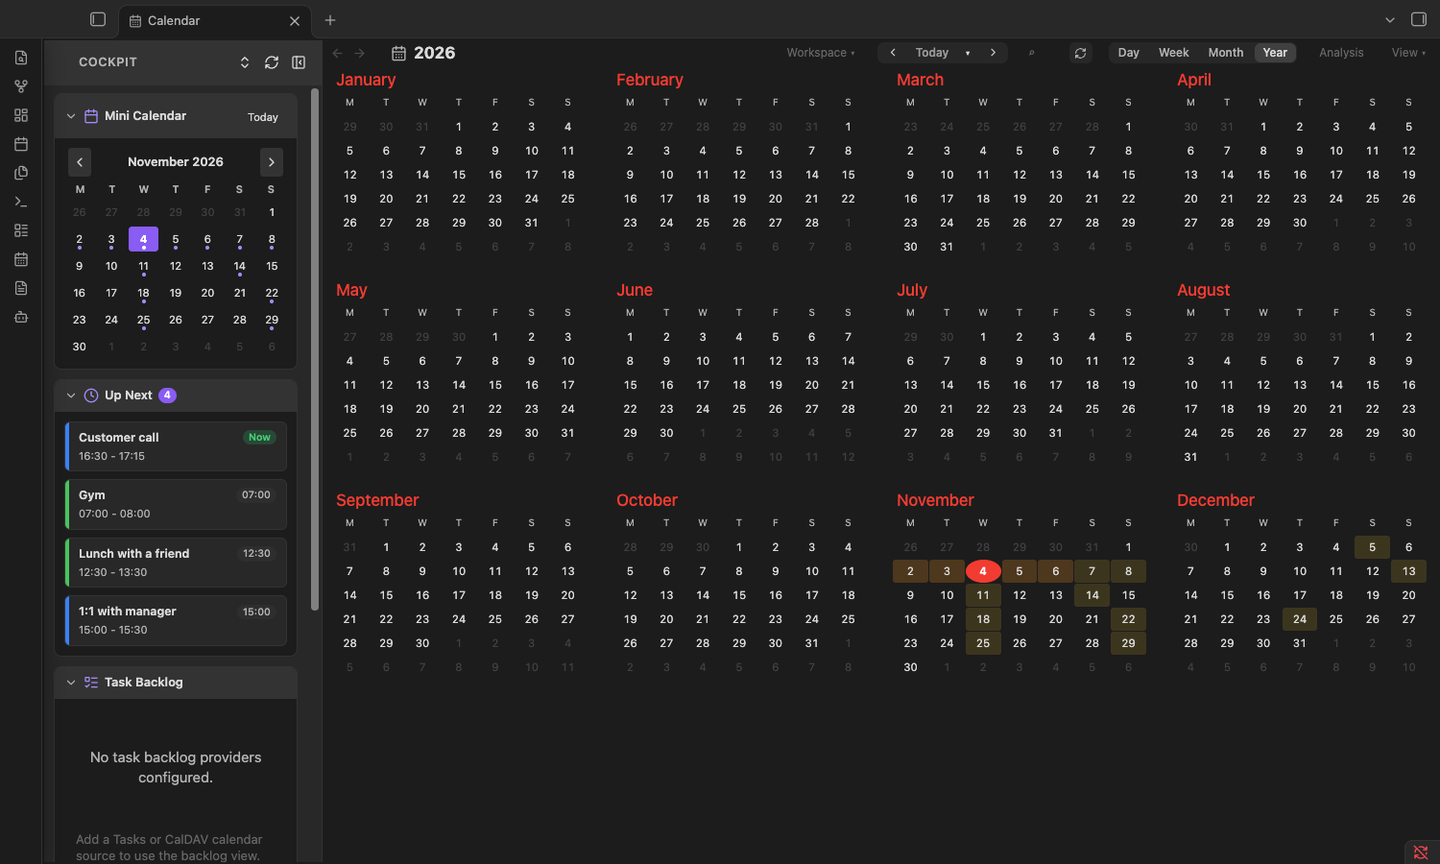
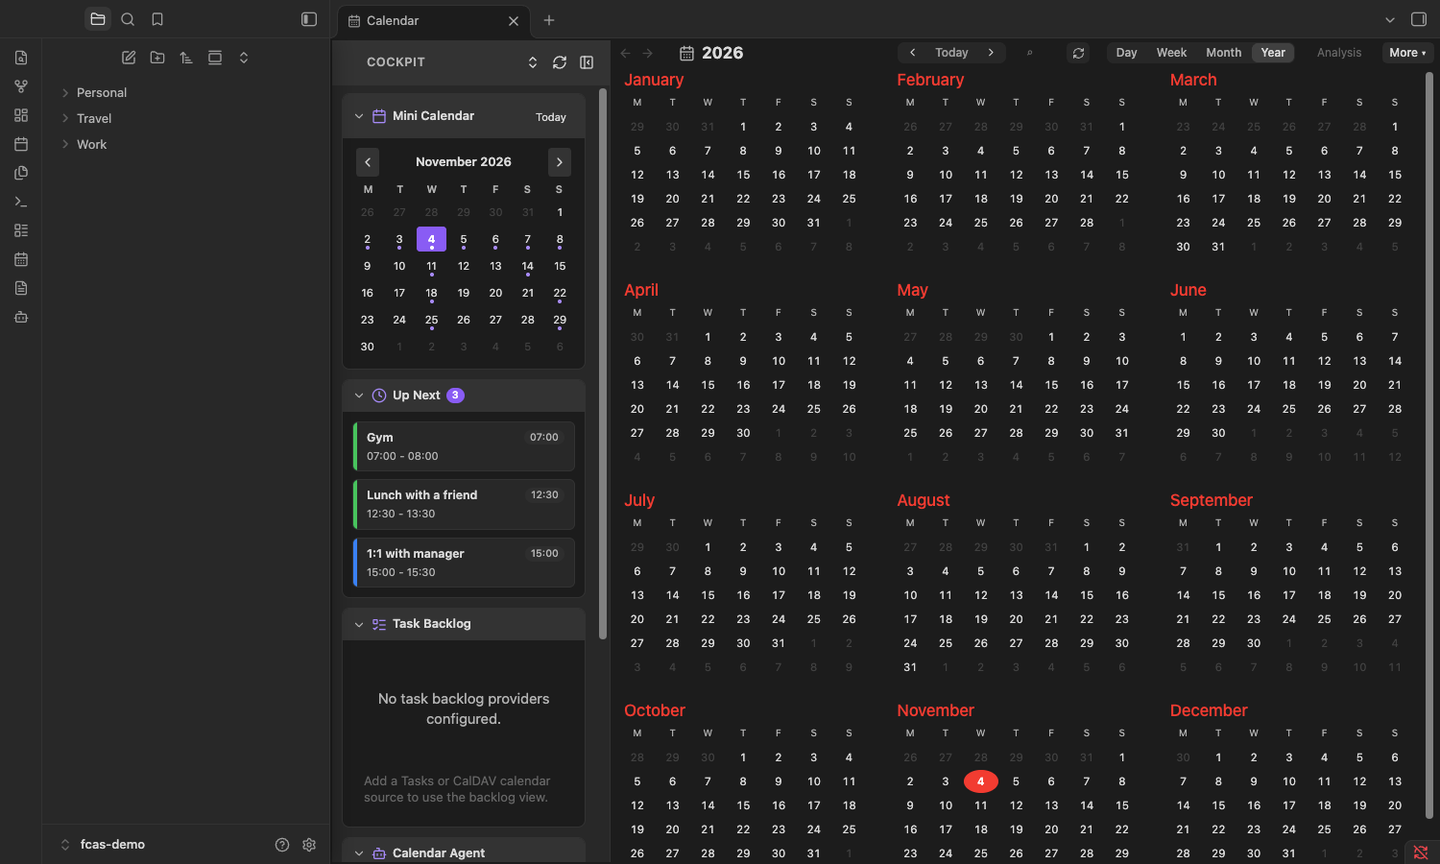
1.1.0: match Apple Calendar by default; extras are opt-in settings

diff --git a/main.js b/main.js
@@ -14,7 +14,7 @@
 // Re-checked every 2 s because Full Calendar rebuilds its calendar object on view/settings changes.
 const { Plugin, PluginSettingTab, Setting, setIcon, Menu } = require('obsidian');
 const FC_ID = 'full-calendar-remastered';   // the Full Calendar plugin this skin dresses
-const DEFAULTS = { hidden: [], soloPrev: null, hijri: false, weekFromToday: false, firstDay: -1 };   // firstDay -1 = follow Full Calendar
+const DEFAULTS = { hidden: [], soloPrev: null, hijri: false, weekFromToday: false, firstDay: -1, routine: false, routineMin: 240, layered: false, chips: false, yearHeat: false };   // firstDay -1 = follow Full Calendar
 let hijriOn = false;   // Islamic-calendar secondary dates (setting)
 // ---------- Layout: how events share a day (rules in docs/LAYOUT-RULES.md) ----------
 // Tunables: one edit each. px = screen pixels in the time grid.
@@ -24,7 +24,7 @@ const SAME_START_PX = 10;         // R2  two ordinary events starting this close
 const TINY_OVERLAP_PX = 9;        // R5  an edge overlap up to this many px counts as tiny…
 const TINY_OVERLAP_RATIO = 0.2;   // R5  …or up to this share of the smaller box
 const MIN_BOX_PX = 15;            // R5  a box is never trimmed below this: it moves away instead
-const BACKDROP_MIN = 240;         // R1  repeating items of at least this many minutes are always the back layer (a night's sleep, a long shift)
+let routineOn = false, BACKDROP_MIN = 240;   // optional striped look: repeating items of at least BACKDROP_MIN minutes form the back layer (a night's sleep, a long shift)
 const BOX_ALPHA = 0.8;            // R3  fill of the top box where it only covers another box
 const DROP_GAP_PX = 2;            // R4b gap kept under the text behind when the top box's text drops clear
 const TEXT_ALPHA = 0.3;           // R4  top box (fill + text) where it covers text behind
@@ -69,6 +69,7 @@ const placeOf = loc => { const s = String(loc || '').trim(); if (!s) return null
 
 const pad = n => String(n).padStart(2, '0');
 const HIJRI = 'ar-SA-u-ca-islamic-civil-nu-latn';   // civil variant of the Islamic calendar
+const syncRoutine = st => { routineOn = !!st.routine; BACKDROP_MIN = Math.max(30, Number(st.routineMin) || 240); };
 const hijriParts = d => {
 	if (!hijriOn) return null;
 	try {
@@ -101,7 +102,7 @@ module.exports = class FcAppleSkin extends Plugin {
 		this.hidden = new Set();     // calendar ids switched off (Calendars panel / chips), kept in this plugin's data.json
 		this.soloPrev = null;        // hidden set before a solo, restored by clicking the solo chip again
 		this.loadCalNames();
-		this.loadData().then(d => { this.settings = Object.assign({}, DEFAULTS, d || {}); hijriOn = !!this.settings.hijri; this.hidden = new Set(this.settings.hidden || []); this.soloPrev = Array.isArray(this.settings.soloPrev) ? new Set(this.settings.soloPrev) : null; this.reparseAll(); });
+		this.loadData().then(d => { this.settings = Object.assign({}, DEFAULTS, d || {}); hijriOn = !!this.settings.hijri; syncRoutine(this.settings); this.hidden = new Set(this.settings.hidden || []); this.soloPrev = Array.isArray(this.settings.soloPrev) ? new Set(this.settings.soloPrev) : null; this.reparseAll(); });
 		this.addSettingTab(new SkinSettings(this.app, this));
 		this.dayHeader = arg => {
 			const d = arg.date, type = arg.view.type;
@@ -169,7 +170,7 @@ module.exports = class FcAppleSkin extends Plugin {
 		if (!raw) return raw;
 		// repeating timed items of BACKDROP_MIN+ minutes (a night's sleep, a shift) get the quieter striped "routine" look and form the back layer
 		const rec = !!(raw.rrule || raw.daysOfWeek || raw.startRecur), m = rawMinutes(raw);
-		if (!raw.allDay && rec && m != null && m >= BACKDROP_MIN) return Object.assign({}, raw, { classNames: [].concat(raw.classNames || [], 'fcas-routine') });
+		if (routineOn && !raw.allDay && rec && m != null && m >= BACKDROP_MIN) return Object.assign({}, raw, { classNames: [].concat(raw.classNames || [], 'fcas-routine') });
 		return raw;
 	}
 	hookFc(fc) {
@@ -240,7 +241,9 @@ module.exports = class FcAppleSkin extends Plugin {
 		const vt = (fc.view && fc.view.type) || fc.getOption('initialView');
 		this.hookFc(fc);
 		if (fc.getOption('dayHeaderContent') !== this.dayHeader) fc.setOption('dayHeaderContent', this.dayHeader);
+		if (fc.getOption('defaultRangeSeparator') !== '–') fc.setOption('defaultRangeSeparator', '–');   // 09:30–10:00 as in Apple Calendar
 		if (fc.getOption('titleFormat') !== this.titleFormat) fc.setOption('titleFormat', this.titleFormat);
+		const ov = !!this.settings.layered; if (fc.getOption('slotEventOverlap') !== ov) fc.setOption('slotEventOverlap', ov);   // off: overlapping events sit side by side, as in Apple Calendar
 		if (!this.prefsDone.has(fc)) {
 			this.prefsDone.add(fc); for (const [k, val] of Object.entries(this.prefs)) fc.setOption(k, val);
 			// optional: a freshly built week view opens with today in the first column (rolling 7 days)
@@ -592,13 +595,13 @@ module.exports = class FcAppleSkin extends Plugin {
 		// Month view: Islamic day at the top-left of each cell (when on), "1 Oct" on the 1st (Apple Calendar)
 		box.querySelectorAll('.fc-daygrid-day[data-date] .fc-daygrid-day-top').forEach(top => {
 			const cell = top.closest('.fc-daygrid-day'), k = cell.dataset.date;
+			const num = top.querySelector('.fc-daygrid-day-number');   // "1 Nov" on the 1st: a data attribute shown by CSS, Full Calendar's own text is left alone
+			if (num && k.endsWith('-01') && !num.dataset.fcasMon) { const [y0, m0] = k.split('-').map(Number); num.dataset.fcasMon = new Date(y0, m0 - 1, 1).toLocaleDateString(undefined, { month: 'short' }); }
 			if (top.dataset.fcasH === k) return;
 			top.dataset.fcasH = k;
 			top.querySelectorAll('.fcas-mhijri').forEach(x => x.remove());
 			const [y, m, d] = k.split('-').map(Number), dt = new Date(y, m - 1, d), h = hijriParts(dt);
 			if (h) top.prepend(createSpan({ cls: 'fcas-mhijri' + (h.day === '1' ? ' is-first' : ''), text: h.day === '1' ? h.month : h.day, attr: { dir: 'rtl' } }));
-			const num = top.querySelector('.fc-daygrid-day-number');
-			if (num && d === 1 && !num.dataset.fcasMon) { num.dataset.fcasMon = '1'; num.textContent = '1 ' + dt.toLocaleDateString(undefined, { month: 'short' }); }
 		});
 		const now = new Date(), nowTxt = hm(now);
 		box.querySelectorAll('.fc-timegrid-now-indicator-arrow').forEach(a => { if (a.dataset.now !== nowTxt) a.dataset.now = nowTxt; });
@@ -624,7 +627,7 @@ module.exports = class FcAppleSkin extends Plugin {
 		}
 		const ha = hijriParts(a), hb = hijriParts(b);
 		const hijri = ha ? (hb && hb.month !== ha.month ? ha.month + ' – ' + hb.month : ha.month) : '';
-		return { main, sub: d.getFullYear() !== now.getFullYear() ? String(d.getFullYear()) : '', hijri };
+		return { main, sub: String(d.getFullYear()), hijri };
 	}
 
 	// does a hidden calendar have (non-repeating) events in [a, b)? Raw data only; repeating ones are remembered from before.
@@ -636,6 +639,7 @@ module.exports = class FcAppleSkin extends Plugin {
 
 	// Toolbar chips: one coloured ring per calendar with events in view. Click = only that calendar (again = back); Shift-click = hide/show.
 	paintChips(box, after) {
+		if (!this.settings.chips) { const old = box.querySelector('.fcas-chips'); if (old) old.remove(); return; }
 		const fc = box.fcasFc;
 		let row = box.querySelector('.fcas-chips');
 		if (!fc || !fc.view || this.year !== null) { if (row) row.remove(); return; }
@@ -663,7 +667,13 @@ module.exports = class FcAppleSkin extends Plugin {
 
 
 	// ---------- Layout: one collision pass per day column (docs/LAYOUT-RULES.md). Inline geometry only; FC's values are put back first. ----------
+	resetLayout(box) {
+		box.querySelectorAll('.fc-timegrid-event-harness').forEach(h => { const st = h.fcasSet; if (st) for (const k of Object.keys(st.o)) h.style[k] = st.o[k]; h.fcasSet = null; });
+		box.querySelectorAll('.fc-timegrid-col').forEach(c => { c.fcasKey = null; });
+		box.querySelectorAll('.fcas-ov, .fcas-fit1, .fcas-fit2, .fcas-drop').forEach(e => { e.classList.remove('fcas-ov', 'fcas-fit1', 'fcas-fit2', 'fcas-drop'); e.style.removeProperty('mask-image'); e.style.removeProperty('-webkit-mask-image'); });
+	}
 	paintLayout(box) {
+		if (!this.settings.layered) { if (box.querySelector('.fcas-ov, .fcas-fit1, .fcas-fit2, .fcas-drop, .fc-timegrid-col[data-date]')) this.resetLayout(box); return; }
 		if (this.year !== null) return;
 		for (const col of box.querySelectorAll('.fc-timegrid-col[data-date]')) { try { this.layoutCol(col); } catch (e) { console.warn('[fc-apple-skin] layout', e); } }
 	}
@@ -682,7 +692,7 @@ module.exports = class FcAppleSkin extends Plugin {
 		}
 		const o = col.getBoundingClientRect(), evs = hs.map(e => {
 			const r = e.el.getBoundingClientRect(), g = e.el.fcSeg, mins_ = g ? (g.end - g.start) / 60000 : 0;
-			return Object.assign(e, { top: r.top - o.top, bot: r.bottom - o.top, x: 0, w: colW, depth: 0, grp: null, moved: false, back: e.el.classList.contains('fcas-routine') && mins_ >= BACKDROP_MIN, short: e.el.classList.contains('fc-timegrid-event-short') });
+			return Object.assign(e, { top: r.top - o.top, bot: r.bottom - o.top, x: 0, w: colW, depth: 0, grp: null, moved: false, back: routineOn && e.el.classList.contains('fcas-routine') && mins_ >= BACKDROP_MIN, short: e.el.classList.contains('fc-timegrid-event-short') });
 		}).sort((a, b) => (b.back - a.back) || (a.top - b.top) || ((b.bot - b.top) - (a.bot - a.top)));
 		// R2: ordinary events starting together share the width
 		evs.forEach((e, i) => { if (e.back) return; for (let j = 0; j < i; j++) { const p = evs[j]; if (!p.back && overlapY(p, e) > Math.max(TINY_OVERLAP_PX, TINY_OVERLAP_RATIO * Math.min(p.bot - p.top, e.bot - e.top)) && Math.abs(p.top - e.top) <= SAME_START_PX) { e.grp = p.grp || p; e.grp.grp = e.grp; break; } } });
@@ -840,7 +850,7 @@ module.exports = class FcAppleSkin extends Plugin {
 				const cell = g.createDiv({ cls: 'fcas-yday', text: String(d.getDate()) });
 				if (!inMonth) { cell.addClass('is-other'); continue; }
 				cell.dataset.date = k;
-				const lv = level(count[k]);
+				const lv = this.settings.yearHeat ? level(count[k]) : 0;
 				if (lv) cell.addClass('lv' + lv);
 				if (k === today) cell.addClass('is-today');
 				const h = hijriParts(d), hf = !!(h && h.day === '1');
@@ -972,6 +982,7 @@ module.exports = class FcAppleSkin extends Plugin {
 				box.classList.remove('fcas', 'fcas-year-on');
 				box.querySelectorAll('.fcas-title, .fcas-seg, .fcas-year, .fcas-hmonth, .fcas-loc, .fcas-mhijri, .fcas-chips, .fcas-nav, .fcas-sync').forEach(e => e.remove());
 				box.querySelectorAll('[data-fcas-loc]').forEach(e => delete e.dataset.fcasLoc);
+				box.querySelectorAll('[data-fcas-mon]').forEach(e => delete e.dataset.fcasMon); box.querySelectorAll('[data-fcas-h]').forEach(e => delete e.dataset.fcasH);
 				box.querySelectorAll('.fc-timegrid-event-harness').forEach(h => { const st = h.fcasSet; if (st) for (const k of Object.keys(st.o)) h.style[k] = st.o[k]; h.fcasSet = null; });
 				box.querySelectorAll('.fc-timegrid-col').forEach(c => { c.fcasKey = null; });
 				box.querySelectorAll('.fcas-ov, .fcas-fit1, .fcas-fit2, .fcas-drop').forEach(e => { e.classList.remove('fcas-ov', 'fcas-fit1', 'fcas-fit2', 'fcas-drop'); e.style.removeProperty('mask-image'); e.style.removeProperty('-webkit-mask-image'); });
@@ -979,7 +990,7 @@ module.exports = class FcAppleSkin extends Plugin {
 			const fc = v.fullCalendarView;
 			this.unhookFc(fc);   // every calendar visible again
 			v.containerEl.closest('.workspace-leaf-content')?.classList.remove('fcas-leaf');
-			try { fc?.setOption('dayHeaderContent', undefined); fc?.setOption('titleFormat', undefined); fc?.setOption('firstDay', this.fd()); fc?.setOption('dayMaxEvents', false); } catch (e) {}
+			try { fc?.setOption('dayHeaderContent', undefined); fc?.setOption('titleFormat', undefined); fc?.setOption('firstDay', this.fd()); fc?.setOption('dayMaxEvents', false); fc?.setOption('slotEventOverlap', true); fc?.setOption('defaultRangeSeparator', ' - '); } catch (e) {}
 		}
 		document.querySelectorAll('.fcas-leaf').forEach(e => e.classList.remove('fcas-leaf'));
 	}
@@ -990,13 +1001,23 @@ class SkinSettings extends PluginSettingTab {
 	display() {
 		const { containerEl } = this, p = this.plugin;
 		containerEl.empty();
-		const save = async () => { await p.saveData(p.settings); hijriOn = !!p.settings.hijri; p.reparseAll(); for (const v of p.views()) { const b = v.containerEl.querySelector('.ofc-calendar-container'); if (b) { b.fcasFc && p.applyPrefs(b.fcasFc); p.paint(b); } } };
+		const save = async () => { await p.saveData(p.settings); hijriOn = !!p.settings.hijri; syncRoutine(p.settings); p.reparseAll(); for (const v of p.views()) { const b = v.containerEl.querySelector('.ofc-calendar-container'); if (b) { b.fcasFc && p.applyPrefs(b.fcasFc); p.paint(b); } } };
 		containerEl.createEl('p', { cls: 'setting-item-description', text: 'Restyles Full Calendar Remastered. These options only change how events are displayed; calendar data is never modified.' });
 		new Setting(containerEl).setName('First day of the week').setDesc('Used by the week, month, year and mini calendar views.')
 			.addDropdown(d => d.addOption('-1', 'Follow Full Calendar').addOption('1', 'Monday').addOption('0', 'Sunday').addOption('6', 'Saturday')
 				.setValue(String(p.settings.firstDay)).onChange(async v => { p.settings.firstDay = Number(v); await save(); }));
 		new Setting(containerEl).setName('Week view starts on today').setDesc('The week view shows a rolling seven days with today in the first column.')
 			.addToggle(t => t.setValue(!!p.settings.weekFromToday).onChange(async v => { p.settings.weekFromToday = v; await save(); }));
+		new Setting(containerEl).setName('Layered overlap layout').setDesc('Off by default (Apple Calendar places overlapping events side by side). On: overlapping events stack in layers with a visible side strip, and text steps down to fit. See docs/LAYOUT-RULES.md.')
+			.addToggle(t => t.setValue(!!p.settings.layered).onChange(async v => { p.settings.layered = v; await save(); }));
+		new Setting(containerEl).setName('Striped look for long repeating events').setDesc('Off by default (Apple Calendar does not do this). Repeating timed events at least as long as the threshold below are drawn striped, behind other events.')
+			.addToggle(t => t.setValue(!!p.settings.routine).onChange(async v => { p.settings.routine = v; await save(); }));
+		new Setting(containerEl).setName('Striped look threshold (minutes)').setDesc('Minimum length for the striped look. Minimum 30.')
+			.addText(t => t.setValue(String(p.settings.routineMin)).onChange(async v => { const n = Number(v); if (n >= 30) { p.settings.routineMin = Math.round(n); await save(); } }));
+		new Setting(containerEl).setName('Calendar chips in the toolbar').setDesc('Off by default (Apple Calendar has none). Coloured rings in the toolbar: click one to show only that calendar, Shift-click to hide or show it.')
+			.addToggle(t => t.setValue(!!p.settings.chips).onChange(async v => { p.settings.chips = v; await save(); }));
+		new Setting(containerEl).setName('Busy-day shading in the year view').setDesc('Off by default (Apple Calendar does not shade days). Tints each day by how many events it has.')
+			.addToggle(t => t.setValue(!!p.settings.yearHeat).onChange(async v => { p.settings.yearHeat = v; await save(); }));
 		new Setting(containerEl).setName('Show Islamic calendar dates').setDesc('Adds the Islamic (civil) day next to each date, the month name in the title and in the year view.')
 			.addToggle(t => t.setValue(!!p.settings.hijri).onChange(async v => { p.settings.hijri = v; await save(); }));
 	}

diff --git a/styles.css b/styles.css
@@ -53,7 +53,7 @@
 .fcas .fc-col-header-cell-cushion{ flex-direction: column; gap: 0; }
 .fcas .fcas-top{ display: inline-flex; align-items: center; gap: 6px; }
 .fcas .fcas-hijri{ font-size: 11px; font-weight: 400; color: var(--text-faint); line-height: 1.2; margin-top: 1px; }
-.fcas .fcas-dow{ color: var(--text-muted); font-weight: 500; }
+.fcas .fcas-dow{ color: var(--text-normal); font-weight: 400; }
 .fcas .fcas-num{
 	min-width: 26px; height: 26px; padding: 0 4px; box-sizing: border-box;
 	display: inline-flex; align-items: center; justify-content: center; border-radius: 13px;
@@ -61,7 +61,8 @@
 }
 .fcas .fc-day-today .fcas-dow{ color: var(--text-normal); }
 .fcas .fc-day-today .fcas-num{ background: var(--fcas-red); color: #fff; }
-.fcas .fc-dayGridMonth-view .fc-col-header-cell-cushion{ font-size: 12px; text-transform: uppercase; letter-spacing: .04em; }
+.fcas .fc-dayGridMonth-view .fc-col-header-cell-cushion{ font-size: 13px; font-weight: 500; }
+.fcas .fc-dayGridMonth-view .fc-col-header-cell{ text-align: right; }
 .fcas .fc-daygrid-day-number{ font-size: 13px; font-weight: 500; color: var(--text-muted); text-decoration: none !important; padding: 4px 6px; }
 .fcas .fc-daygrid-day.fc-day-today .fc-daygrid-day-number{
 	background: var(--fcas-red); color: #fff; border-radius: 12px; min-width: 22px; text-align: center; margin: 2px; padding: 2px 6px;
@@ -113,7 +114,7 @@
 .fcas .fc-timegrid-event-short .fc-event-main{ padding: 0 4px; font-size: 11px; line-height: 1.25; }
 .fcas .fc-timegrid-event-short .fc-event-main-frame{ flex-direction: row; justify-content: flex-start; align-items: center; overflow: hidden; }
 .fcas .fc-timegrid-event-short .fc-event-title-container{ min-width: 0; flex: 1 1 auto; }
-.fcas .fc-timegrid-event-short .fc-event-time{ display: none; }
+.fcas .fc-timegrid-event.fc-timegrid-event-short .fc-event-time{ display: none; }
 .fcas .fc-timegrid-event-short .fc-event-title{ white-space: nowrap; overflow: hidden; text-overflow: ellipsis; font-size: 11px; }
 .fcas .fc-timegrid-event-short{ min-height: 16px; }
 .fcas .fc-daygrid-dot-event .fc-event-time{ color: var(--text-muted); font-weight: 400; }
@@ -134,8 +135,6 @@
 }
 .fcas .fcas-seg button:hover{ color: var(--text-normal); }
 .fcas .fcas-seg button.is-active{ background: color-mix(in srgb, var(--text-normal) 14%, transparent); color: var(--text-normal); }
-/* weekend headers muted, Islamic month in the corner (when enabled) */
-.fcas .fc-col-header-cell.fc-day-sat:not(.fc-day-today) .fcas-top, .fcas .fc-col-header-cell.fc-day-sun:not(.fc-day-today) .fcas-top{ opacity: .55; }
 .fcas .fc-scrollgrid-section-header .fc-timegrid-axis{ vertical-align: bottom; }
 .fcas .fcas-hmonth{ display: block; font-size: 10px; line-height: 1.15; color: var(--text-faint); padding: 0 4px 6px 2px; text-align: right; white-space: normal; }
 .fcas .fcas-hijri.is-first{ color: var(--text-muted); }
@@ -190,15 +189,14 @@
 .fcas .fcas-yday.is-hfirst{ text-decoration: underline; text-decoration-color: var(--fcas-red); text-decoration-thickness: 2px; text-underline-offset: 3px; }
 .fcas .fcas-yday.is-today{ background: var(--fcas-red) !important; color: #fff; border-radius: 50%; font-weight: 600; }
 
-/* Full Calendar's blue halo on the current/next event, toned down: a thin ring in the event's own colour */
+/* Full Calendar's halo on the current/next event is switched off: Apple Calendar has none */
 .fcas .ofc-event-current-or-next-harness{ filter: none !important; }
-.fcas .fc .fc-event.ofc-event-current-or-next{
-	box-shadow: 0 0 0 1px var(--background-primary), 0 0 0 2.5px color-mix(in srgb, var(--ev) 75%, #fff), 0 0 10px color-mix(in srgb, var(--ev) 35%, transparent) !important;
-	outline: none !important;
-}
+.fcas.fc .fc-event.ofc-event-current-or-next, .fcas.fc .fc-daygrid-event.ofc-event-current-or-next{ box-shadow: none !important; outline: none !important; }
 
 /* ---------- Month view ---------- */
-.fcas .fc-daygrid-day-top{ display: flex; flex-direction: row !important; justify-content: space-between; align-items: baseline; }
+.fcas .fc-daygrid-day-top{ display: flex; flex-direction: row !important; justify-content: flex-end !important; align-items: baseline; }
+.fcas .fc-daygrid-day-number[data-fcas-mon]::after{ content: ' ' attr(data-fcas-mon); }
+.fcas .fcas-mhijri{ margin-right: auto; }
 .fcas .fcas-mhijri{ font-size: 11px; color: var(--text-faint); padding: 4px 6px; }
 .fcas .fcas-mhijri.is-first{ color: var(--fcas-red); text-decoration: underline; text-underline-offset: 3px; }
 .fcas .fc-daygrid-dot-event{ display: flex; align-items: center; padding: 0 2px; margin-top: 1px; font-size: 11.5px; }
@@ -265,9 +263,9 @@
 .fcas .fcas-chip.is-off::before{ opacity: .3; }
 .fcas .fcas-chip.is-solo::before{ background: var(--c); box-shadow: 0 0 0 2px color-mix(in srgb, var(--c) 35%, transparent); }
 /* day header: one line "Fri 30 18" */
-.fcas .fc-col-header-cell-cushion{ flex-direction: row !important; align-items: baseline; gap: 5px; padding: 3px 2px 3px !important; font-size: 12px; }
+.fcas .fc-col-header-cell-cushion{ flex-direction: row !important; align-items: baseline; gap: 5px; padding: 4px 2px 4px !important; font-size: 15px; }
 .fcas .fcas-top{ gap: 4px; align-items: center; }
-.fcas .fcas-num{ min-width: 20px; height: 20px; border-radius: 10px; font-size: 13px; padding: 0 3px; }
+.fcas .fcas-num{ min-width: 24px; height: 24px; border-radius: 12px; font-size: 15px; font-weight: 400; padding: 0 3px; }
 .fcas .fcas-hijri{ font-size: 10px; margin: 0; }
 /* time column: narrow, no corner text */
 .fcas .fc-timegrid-slot-label-cushion{ font-size: 10px; padding: 0 3px 0 2px; }
@@ -368,9 +366,6 @@
 /* R11: one-line events: pill and time on one centre line, a small gap, no FC dash */
 .fcas .fc-timegrid-event-short .fc-event-main-frame{ align-items: center; gap: 5px; }
 .fcas .fc-timegrid-event-short .fc-event-title-container{ display: flex; align-items: center; flex: 0 1 auto; min-width: 0; }
-.fcas .fc-timegrid-event-short .fc-event-time{ flex: none; margin: 0; line-height: 16px; height: 16px; white-space: nowrap; }
-.fcas .fc-timegrid-event-short .fc-event-time::after{ content: none; }
-.fcas .fc-timegrid-event-short .fc-event-time{ font-size: 10px; }
 /* R4b: the top box's text drops below the text behind */
 .fcas .fc-timegrid-event.fcas-drop .fc-event-main{ padding-top: calc(3px + var(--fcas-drop, 0px)); }
 
@@ -417,3 +412,4 @@
 
 /* Full Calendar 0.13+ adds an agenda list under the month grid; the year view replaces the whole grid, so hide it there */
 .ofc-calendar-shell:has(> .fcas-year-on) .ofc-mobile-agenda{ display: none !important; }
+.fcas.fc .fc-daygrid-dot-event.ofc-event-current-or-next{ background: transparent !important; border-color: transparent !important; }

diff --git a/README.md b/README.md
@@ -12,15 +12,17 @@ It is display only: it reads your events to draw them and never writes to your c
 
 ## What it does
 
-- Tinted event blocks in each calendar's colour, with a location line, a glow on the event that is happening now, and a red time pill on the now-line.
+Out of the box it follows Apple Calendar: nothing else is switched on.
+
+- Tinted event blocks in each calendar's colour with a left bar, a location line and a red time pill on the now-line.
 - A clean toolbar: back / forward, a month title, Day / Week / Month / Year switch and a sync button.
-- **Year view**: twelve months, each day shaded by how busy it is. Click a day to jump to that week.
+- Overlapping events sit side by side, as in Apple Calendar.
+- **Year view**: twelve months; click a day to jump to that week.
 - **Calendars panel** (hover the left edge, or click the calendar icon in the title): one switch per calendar, and "Only" to show a single calendar. Calendars are grouped by type (Google, CalDAV, Outlook, ICS, other).
-- **Calendar chips** in the toolbar: click one to show only that calendar, click again to show all, Shift-click to hide or show it.
 - Single click selects an event, double click opens an info card (Edit opens Full Calendar's own editor), hover shows a quick peek.
-- Overlapping events share a day column by a fixed set of rules ([docs/LAYOUT-RULES.md](docs/LAYOUT-RULES.md)). Repeating timed events of four hours or more (a sleep, a shift) are drawn as a quieter striped back layer.
 - A restyled mini calendar in Full Calendar's sidebar.
-- Optional Islamic (civil) dates next to each date, off by default.
+
+Optional extras, all off by default (see Settings): a rolling seven-day week, Islamic dates, calendar chips in the toolbar, busy-day shading in the year view, a layered overlap layout and a striped look for long repeating events.
 
 ## Requirements
 
@@ -38,8 +40,12 @@ It is display only: it reads your events to draw them and never writes to your c
 | Setting | Default | What it does |
 |---|---|---|
 | First day of the week | Follow Full Calendar | Monday, Sunday, Saturday, or whatever Full Calendar uses. Applies to the week, month and year views and the mini calendar. |
-| Week view starts on today | Off | Shows today and the six days after it instead of a calendar week. |
-| Show Islamic calendar dates | Off | Adds the Islamic (civil) day to each date, the month in the title and the year view. |
+| Week view starts on today | Off | Shows today and the six days after it instead of a calendar week (Apple Calendar's "Start week on: Today"). |
+| Show Islamic calendar dates | Off | Adds the Islamic (civil) day to each date, the month in the title and the year view (Apple Calendar's alternate calendar). |
+| Calendar chips in the toolbar | Off | Coloured rings in the toolbar: click one to show only that calendar, Shift-click to hide or show it. |
+| Busy-day shading in the year view | Off | Tints each day of the year view by how many events it has. |
+| Layered overlap layout | Off | Overlapping events stack in layers with a visible side strip instead of sitting side by side ([rules](docs/LAYOUT-RULES.md)). |
+| Striped look for long repeating events | Off | Repeating timed events at least as long as the threshold (default 240 minutes) are drawn striped, behind other events. |
 
 ## How it works
 

diff --git a/docs/LAYOUT-RULES.md b/docs/LAYOUT-RULES.md
@@ -1,6 +1,6 @@
 # Overlap layout rules
 
-How timed events share a day column. Code: `layoutCol` in `main.js`; tunables are the named constants at its top, tagged with the rule number. Rule numbers are kept stable between versions.
+How timed events share a day column when the optional "Layered overlap layout" setting is on (by default overlapping events sit side by side, as in Apple Calendar). Code: `layoutCol` in `main.js`; tunables are the named constants at its top, tagged with the rule number. Rule numbers are kept stable between versions.
 
 Rules use event properties only (duration, overlap amount), never event names.
 
